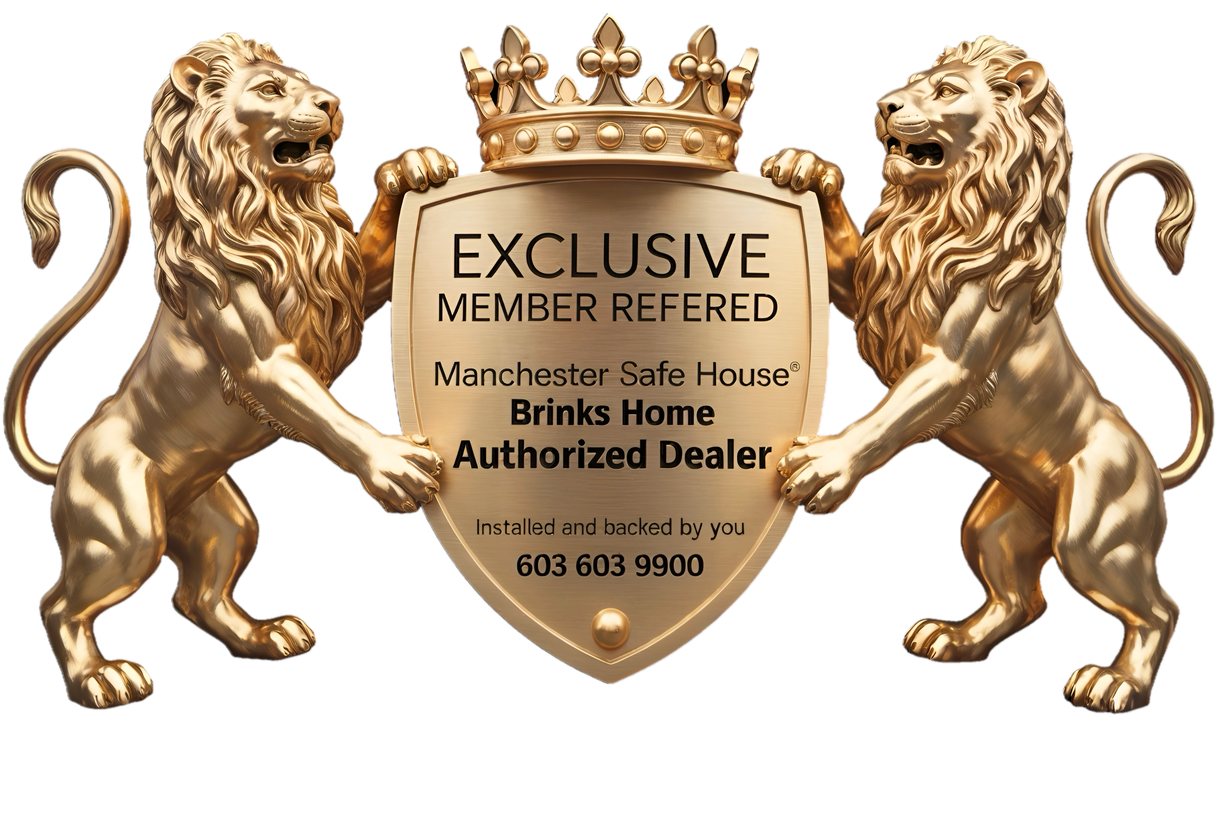
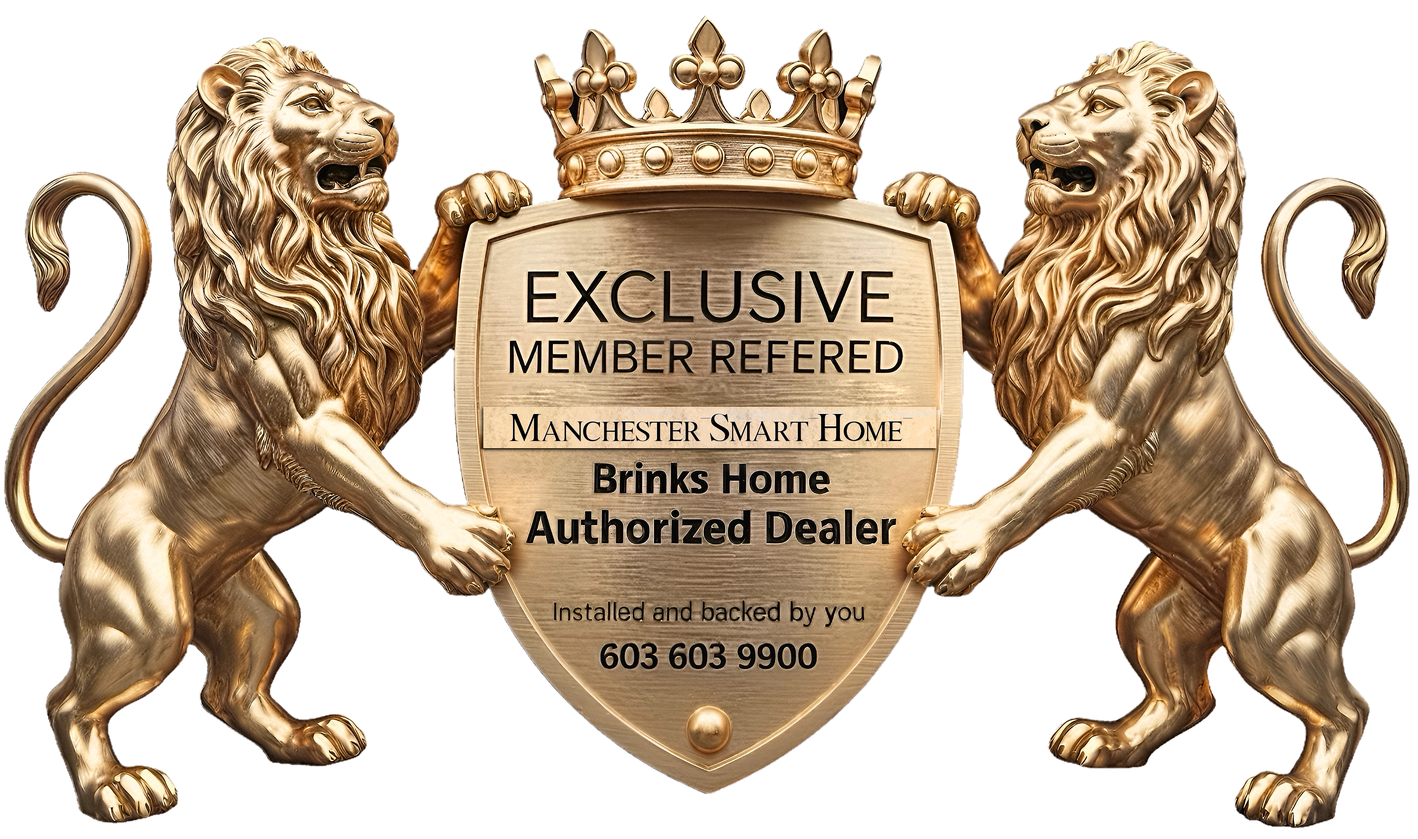
Add files via upload

diff --git a/index.html b/index.html
@@ -4,9 +4,9 @@
 	<head>
 		<meta charset="UTF-8" />
 		<meta name="viewport" content="width=device-width, initial-scale=1" />
-		<title>Manchester Safe House -- Join us. Be you.</title>
+		<title>Manchester Smart Home -- Join us. Be you.</title>
 		<meta name="description"
-			content="Join Manchester Safe House. Purposeful work protecting families and serving our community." />
+			content="Join Manchester Smart Home. Purposeful work protecting families and serving our community." />
 		
 		<link rel="preconnect" href="https://fonts.googleapis.com" />
 		<link rel="preconnect" href="https://fonts.gstatic.com" crossorigin />
@@ -350,9 +350,9 @@ h2
 				<div class="brand-left">Career at <span class="accent">MANCHESTER SAFE HOUSE</span></div>
 				<nav class="nav-right" aria-label="Global">
 					<a href="#intro">Overview</a>
-					<a href="#quote1">Work at Manchester Safe House</a>
-					<a href="#quote2">Life at Manchester Safe House</a>
-					<a href="#quote3">Manchester Safe House itself</a>
+					<a href="#quote1">Work at Manchester Smart Home</a>
+					<a href="#quote2">Life at Manchester Smart Home</a>
+					<a href="#quote3">Manchester Smart Home itself</a>
                     <a href="#quote4">Shared Values</a>
                     <a href="#quote5">Benefits</a>
 				</nav>
@@ -364,7 +364,7 @@ h2
 			<section id="intro" aria-label="Intro">
 				<div class="content">
 					<img id="crestImg" class="crest" src="crest.webp"
-						alt="Manchester Safe House crest logo" />
+						alt="Manchester Smart Home crest logo" />
 					<h1 class="intro-title">
                         <span class="line">Join us.</span>
                         <span class="line"><span class="gold">Be you.</span></span>
@@ -400,7 +400,7 @@ h2
 					<p class="author">Tadju <span class="gold">01</span>, Sales Representative & Alarm Technician</p>
 					<div class="cta-row">
 						<a href="#" class="btn">Watch the film</a>
-						<a href="#" class="link">Learn about who works at Manchester Safe House</a>
+						<a href="#" class="link">Learn about who works at Manchester Smart Home</a>
 					</div>
 				</div>
 			</section>
@@ -410,7 +410,7 @@ h2
 				<div class="quote-wrap">
 					<h2 id="quote2-heading"><span class="gold">Neighbors </span>make the lion</h2>
 					<ul class="quote-lines">
-						<li class="quote-line">Manchester Safe House</li>
+						<li class="quote-line">Manchester Smart Home</li>
 						<li class="quote-line">has always focused</li>
 						<li class="quote-line">on one thing — <span class="gold">neighbors.</span></li>
 						<li class="quote-line"> <span class="gold">ꕹ 👇🏻</span></li>
@@ -428,7 +428,7 @@ h2
 					<p class="author">Albin <span class="gold">03</span>, Sales Representative & Alarm Technician</p>
 					<div class="cta-row">
 						<a href="#" class="btn">Watch the film</a>
-						<a href="#" class="link">Learn about work at Manchester Safe House</a>
+						<a href="#" class="link">Learn about work at Manchester Smart Home</a>
 					</div>
 				</div>
 			</section>
@@ -443,7 +443,7 @@ h2
                         <li class="quote-line">design may be the</li>
                         <li class="quote-line">lions’ den itself.</li>
 						<li class="quote-line"> <span class="gold">ꕹ </span></li>
-                        <li class="quote-line">Manchester Safe House runs</li>
+                        <li class="quote-line">Manchester Smart Home runs</li>
                         <li class="quote-line">on <span class="gold">integration,</span> </li> 
                         <li class="quote-line">not silos —</li> 
                         <li class="quote-line">that’s rare for a company in our industry.</li>
@@ -463,7 +463,7 @@ h2
 					<p class="author">Pedro <span class="gold">04</span>, Sales Representative & Alarm Technician</p>
 					<div class="cta-row">
 						<a href="#" class="btn">Watch the film</a>
-						<a href="#" class="link">Learn about how Manchester Safe House is organized for innovation.</a>
+						<a href="#" class="link">Learn about how Manchester Smart Home is organized for innovation.</a>
 					</div>
 				</div>
 			</section>
@@ -508,7 +508,7 @@ h2
 					<p class="author">Maya <span class="gold">37</span>, Sales Representative & Alarm Technician</p>
 					<div class="cta-row">
 						<a href="#" class="btn">Watch the film</a>
-						<a href="#" class="link">Learn about why we work at Manchester Safe House</a>
+						<a href="#" class="link">Learn about why we work at Manchester Smart Home</a>
 					</div>
 				</div>
 			</section>
@@ -537,7 +537,7 @@ h2
 					<p class="author">Derek <span class="gold">05</span>, Sales Representative & Alarm Technician</p>
 					<div class="cta-row">
 						<a href="#" class="btn">Watch the film</a>
-						<a href="#" class="link">Learn more about what works for Manchester Safe House</a>
+						<a href="#" class="link">Learn more about what works for Manchester Smart Home</a>
 					</div>
 				</div>
 			</section>
